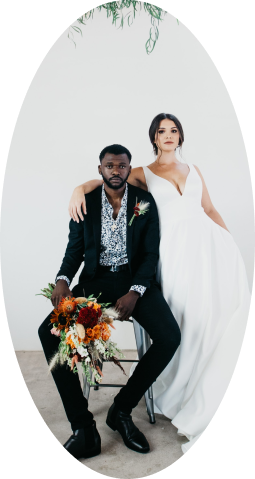
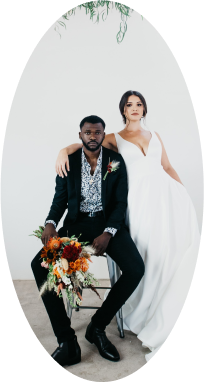
add new pages cover intro

diff --git a/components/Intro/Intro.jsx b/components/Intro/Intro.jsx
@@ -1,11 +1,11 @@
 export default function Intro()
 {
     return (
-        <div className="bg-[#0D0D0D] h-[100vh] bg-[url('/Photo/bg-batik.png')] flex flex-col items-center">
-            <span className="text-[#F2C777] text-[24px] font-bold mt-[40px] mb-[8px]">THE WEDDING OF</span>
+        <div className="bg-[#0D0D0D] h-[100vh] bg-[url('/Photo/bg-batik.png')] flex flex-col items-center justify-center">
+            <span className="text-[#F2C777] text-[36px] font-bold mb-[8px]">THE WEDDING OF</span>
             <img className="mb-[8px]" src="/Icon/asset-batik-8-big.svg" alt="batik-8-big" />
-            <div className="bg-[url('/Icon/foto-frame.svg')] bg-no-repeat w-[270px] h-[507px] mb-[16px]">
-                <img className="mx-auto my-0 pt-[14px]" src="/Photo/foto-intro.png" alt="photo-intro" />
+            <div className="bg-[url('/Icon/foto-frame.svg')] bg-no-repeat w-[215.15px] h-[404px] mb-[16px]">
+                <img className="mx-auto my-0 pt-[10px]" src="/Photo/foto-intro.png" alt="photo-intro" />
             </div>
             <img src="/Icon/asset-batik-4.svg" alt="" />
             <span className="text-[24px] font-bold mt-[16px] text-[#F2C777] ">Jennifer &#38; Hamzah</span>

diff --git a/components/Ucapan/UcapanForm.jsx b/components/Ucapan/UcapanForm.jsx
@@ -10,7 +10,7 @@ export default function UcapanForm() {
                 <label className="mb-[8px]" for="ucapan">Kirim ucapan mu</label>
                 <textarea className="w-[335px] h-[66px] mb-[16px] bg-[transparent] border-[1px] border-[#F2C777] p-[12px] text-[12px] rounded-[15px] focus:outline-[0]" type="text" id="ucapan">
                 </textarea>
-                <button className="w-[332px] h-[31px] bg-[#F2C777] rounded-[15px] mb-[36px]">
+                <button className="w-[332px] h-[35px] bg-[#F2C777] rounded-[15px] mb-[36px] self-center">
                     <span className=" text-[#0D0D0D] text-[12px] font-bold">Kirim Sekarang</span>
                 </button>
             </form>

diff --git a/components/Cover/Cover.module.css b/components/Cover/Cover.module.css
@@ -1,12 +1,25 @@
+/* crossfade image background */
+@keyframes fader{
+    0% {background: url('/Photo/image-slide1.png')}
+    33% {background: url('/Photo/image-slide2.png')}
+    67% {background: url('/Photo/image-slide3.png')}
+    100% {background: url('/Photo/image-slide1.png')}
+}
+
 .cover{
     width: 100%;
     height: 100vh;
-    background-color: #0D0D0D;
     color: white;
     align-items: center;
     justify-content: center;
     display: flex;
+    animation: fader 20s linear infinite;
 }
+
+.cover:after {
+    content: ""; 
+    background: rgba(0,0,0,0.47);
+  }
 
 .coverMain{
     height: auto;
